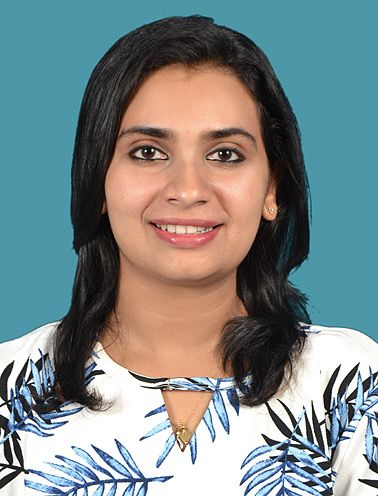
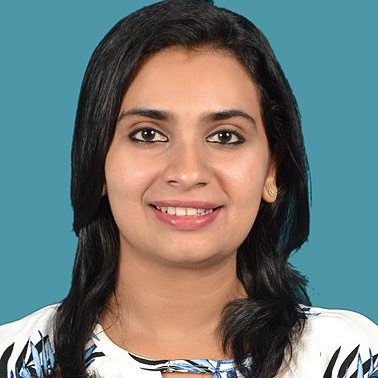
testimonials added

diff --git a/index.html b/index.html
@@ -467,7 +467,7 @@
                   </blockquote>
                 </div>
                 <div class="mu-testimonial-img">
-                  <img src="assets/img/testimonials-1.jpg" alt="img">
+                  <img src="assets/img/testimonials-2.jpg" alt="img">
                 </div>
                 <div class="mu-testimonial-info">
                   <h4>Dr. Aparna S</h4>
@@ -485,7 +485,7 @@
                   </blockquote>
                 </div>
                 <div class="mu-testimonial-img">
-                  <img src="assets/img/testimonials-2.jpg" alt="img">
+                  <img src="assets/img/testimonials-1.jpg" alt="img">
                 </div>
                 <div class="mu-testimonial-info">
                   <h4>Gayathri Satheesh</h4>
@@ -501,7 +501,7 @@
                   </blockquote>
                 </div>
                 <div class="mu-testimonial-img">
-                  <img src="assets/img/testimonial-2.png" alt="img">
+                  <img src="assets/img/testimonials-3.jpg" alt="img">
                 </div>
                 <div class="mu-testimonial-info">
                   <h4>Malavika Varma</h4>
